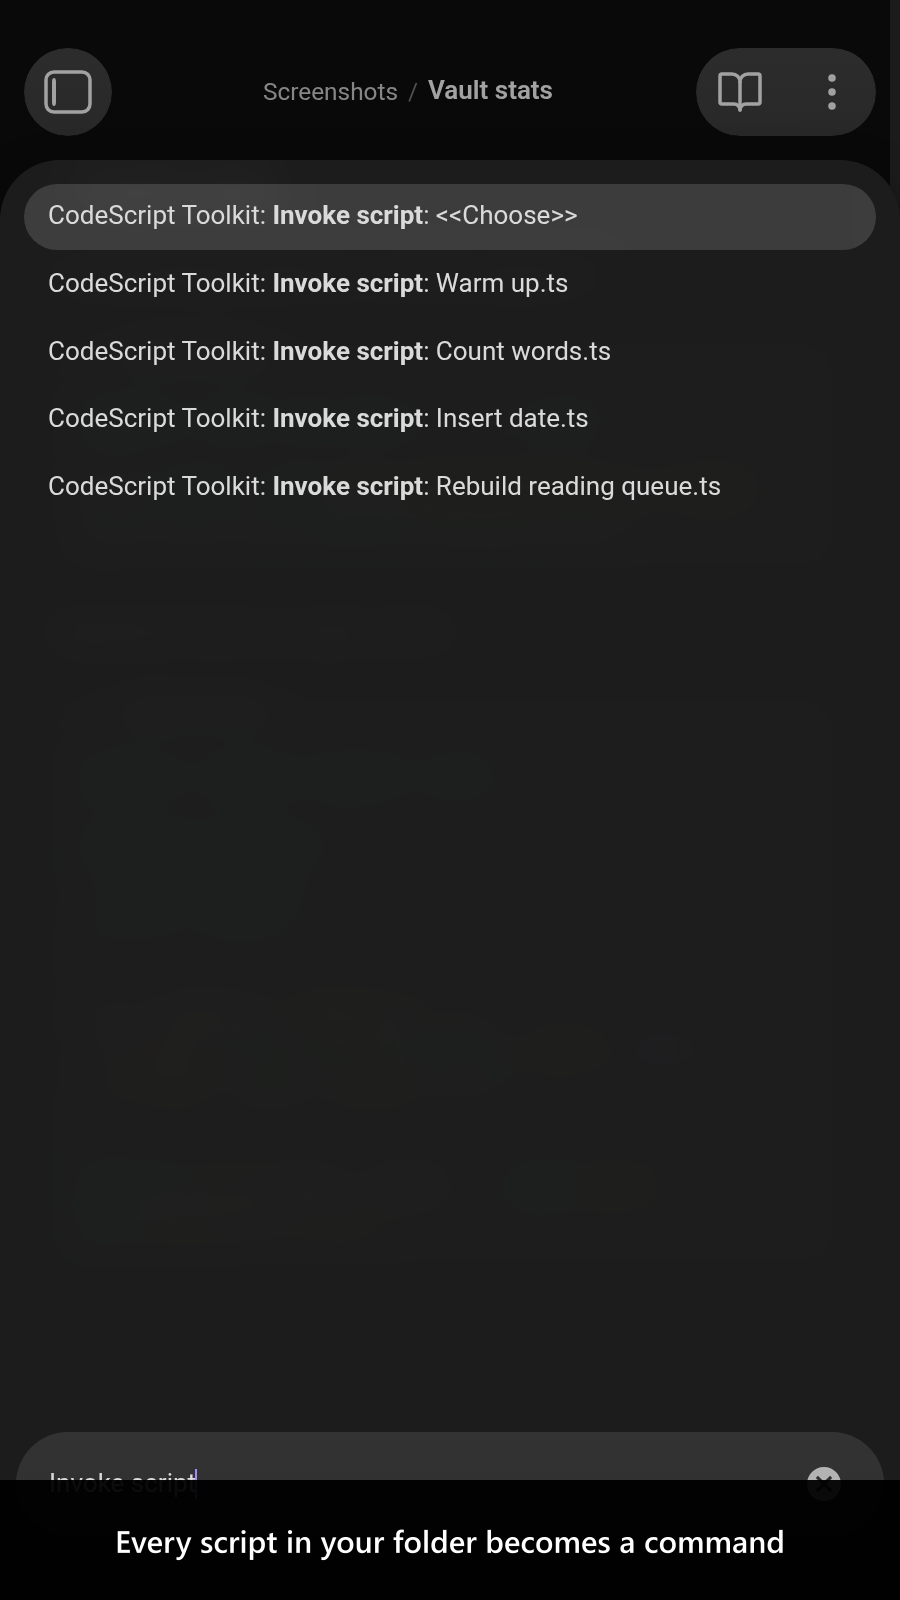
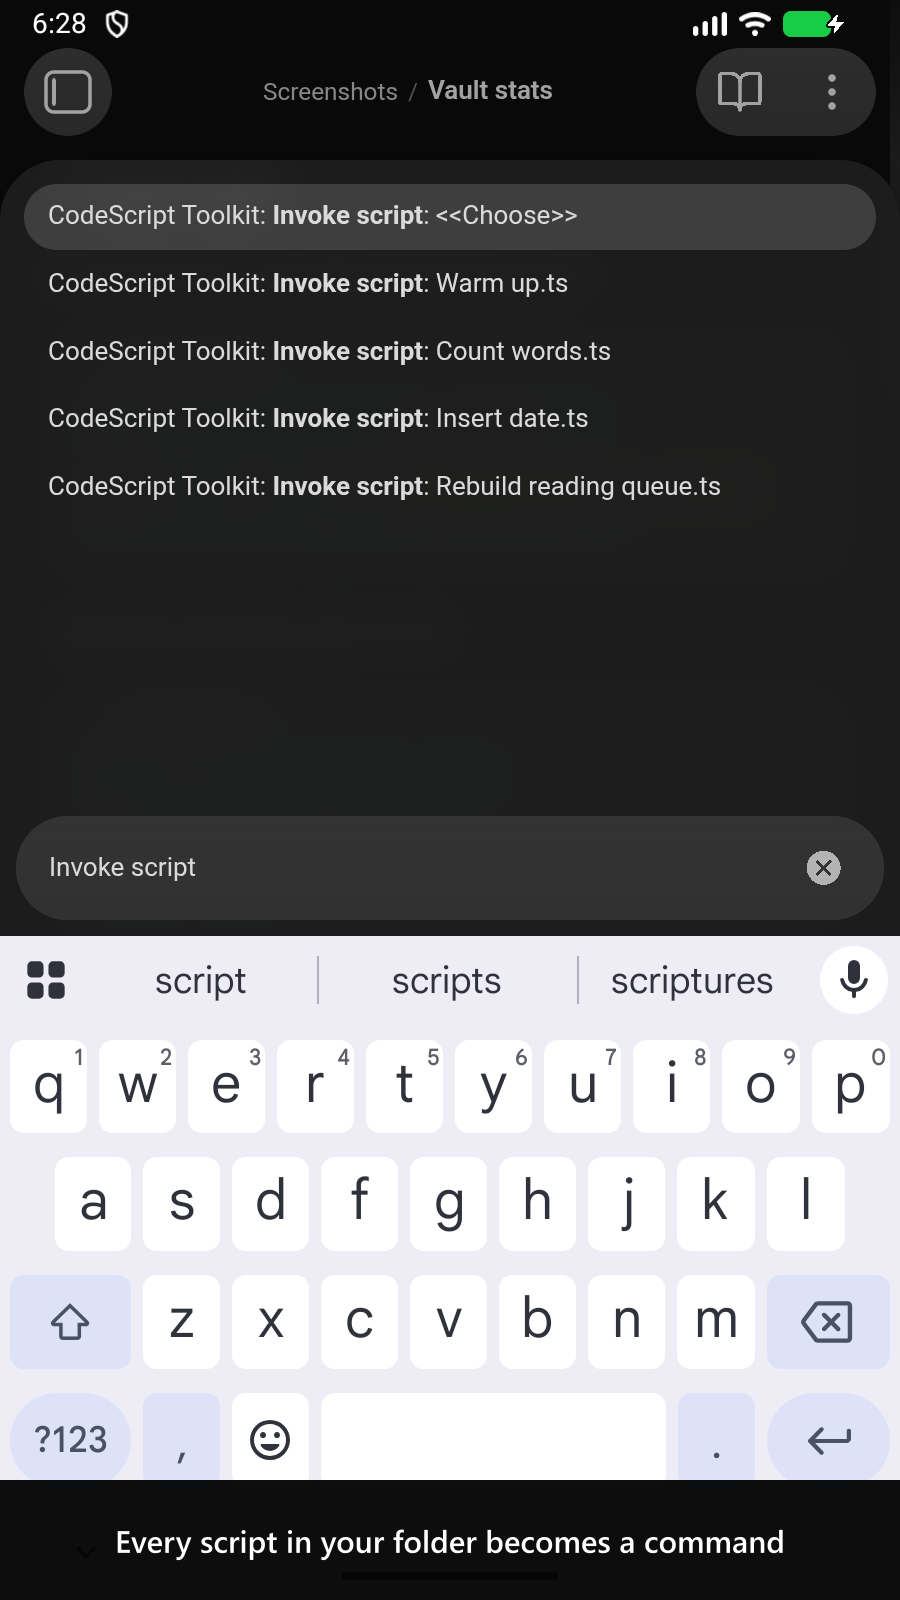
test(integration): take the palette frame with the soft keyboard up
The command-palette frame is a focused search field over nothing: the page
capture it used cannot show a keyboard, because it drives Appium in the
WebView context and the IME is a system window rather than part of the page.
So most of the frame was an empty band where a phone shows a keyboard, and the
caption band - drawn across the bottom of the image - landed on the field
itself.

That frame now comes from the device framebuffer with the keyboard raised
first. Measured as the largest contiguous flat row-run it falls from 58.3% to
19.8%, and all five invoke-script commands plus the typed query are legible,
which is exactly what the caption promises. Both halves of raising it come
from the harness: the AVD is built with a hardware keyboard attached, so
Android suppresses the on-screen one until the device setting is flipped, and a
WebView will not ask for an IME on programmatic focus alone, so it takes a real
touch on the field. The setting is restored exactly afterwards, including the
case where it had never been written.

The swap is per SHOT, not per suite. The four frames showing code blocks and
their results have no focused field - a real phone would show no keyboard there
either - so they keep the page capture and stay byte-reproducible; all four
re-captured to identical bytes, and only the palette frame is modified here.
That frame is the one that gives up reproducibility, since the status-bar clock
and the battery indicator are now in it.
[…]

diff --git a/src/screenshots.android-capture.integration.test.ts b/src/screenshots.android-capture.integration.test.ts
@@ -33,10 +33,14 @@ import { join } from 'node:path';
 import process from 'node:process';
 import { sleep as sleepInNode } from 'obsidian-dev-utils/async';
 import {
+  captureDeviceScreenshot,
   captureObsidianScreenshot,
   evalInObsidian,
   labelScreenshot,
-  readPngDimensions
+  raiseSoftKeyboard,
+  readPngDimensions,
+  resolveEmulatorDeviceId,
+  withSoftKeyboardEnabled
 } from 'obsidian-integration-testing';
 import { getTemporaryVault } from 'obsidian-integration-testing/vitest-global-setup-plugin';
 import {
@@ -102,7 +106,25 @@ const IMAGES_DIRECTORY = join(process.cwd(), 'images', 'screenshots');
  */
 let setupDiagnostics: unknown;
 
+/**
+ * The AVD the frames are taken on, matched by name.
+ *
+ * Never the first device `adb devices` lists: a physical phone is routinely plugged into the same
+ * machine, and the shared AVD the cross-platform suites drive is a different size.
+ */
+const AVD_NAME = 'obsidian_screenshots';
+
+/**
+ * Obsidian's command palette input, read off this suite's own palette helper rather than assumed: the
+ * palette renders `.prompt input`, which is not the `.prompt-input` a suggester renders.
+ */
+const PALETTE_INPUT_SELECTOR = '.prompt input';
+
+let deviceId = '';
+
 beforeAll(async () => {
+  deviceId = await resolveEmulatorDeviceId({ avdName: AVD_NAME });
+
   const vault = getTemporaryVault();
 
   vault.populate({
@@ -204,7 +226,7 @@ describe('mobile store screenshots', () => {
     const commandNames = registeredNames.join('\n');
     expect(commandNames).toContain('Invoke script: Insert date.ts');
     expect(commandNames).toContain('Invoke script: Rebuild reading queue.ts');
-    await shoot(4, 'Every script in your folder becomes a command');
+    await shootWithSoftKeyboard(4, 'Every script in your folder becomes a command');
   });
 
   it('5 - a note importing a module from the vault', async () => {
@@ -436,20 +458,47 @@ async function runModuleNote(): Promise<string> {
 async function shoot(index: number, caption: string): Promise<void> {
   const captured = await captureObsidianScreenshot({ vaultPath: vaultPath() });
 
-  // The AVD is 900x1600, so the device frame IS the store's size. Asserting it
-  // Here is what keeps that true: run this against any other AVD and it fails
-  // Loudly instead of quietly shipping an off-spec image.
-  expect(readPngDimensions(captured)).toStrictEqual({
-    heightInPixels: HEIGHT_IN_PIXELS,
-    widthInPixels: WIDTH_IN_PIXELS
+  await writeFrame(index, caption, captured);
+}
+
+/**
+ * Raises the soft keyboard, captures the DEVICE, and writes the frame.
+ *
+ * For a shot whose subject is a focused field. `captureObsidianScreenshot` cannot show a keyboard: it
+ * drives Appium in the WebView context, so it photographs the page, and the IME is a system window that
+ * is not part of the page — which left such a frame as a field over a large empty band, with the caption
+ * band landing on the field and clipping the typed text.
+ *
+ * Two things are needed and both belong to the harness rather than here: the AVD is built with a hardware
+ * keyboard attached, so Android suppresses the on-screen one until `withSoftKeyboardEnabled` lifts that
+ * and puts the setting back exactly — including putting back a setting that had never been written, which
+ * takes a delete rather than a write; and a WebView will not ask for an IME on programmatic focus alone,
+ * so `raiseSoftKeyboard` lands a real touch on the field and then proves geometrically that it lifted,
+ * because nothing in the page reports the keyboard.
+ *
+ * The trade, which applies only to the shots that switch: a device capture is **not** byte-reproducible,
+ * because the status-bar clock and the battery indicator are in it. A shot with no focused field keeps
+ * {@link shoot} and stays reproducible — a real phone shows no keyboard there either, so raising one
+ * would make that frame less true rather than more.
+ *
+ * @param index - The 1-based listing position.
+ * @param caption - The caption drawn across the bottom of the frame.
+ */
+async function shootWithSoftKeyboard(index: number, caption: string): Promise<void> {
+  const captured = await withSoftKeyboardEnabled({
+    async callback() {
+      await raiseSoftKeyboard({
+        deviceId,
+        inputSelector: PALETTE_INPUT_SELECTOR,
+        vaultPath: vaultPath()
+      });
+
+      return await captureDeviceScreenshot({ deviceId });
+    },
+    deviceId
   });
 
-  // Captioned AFTER capture, so the frame stays an untouched device screenshot
-  // And rewording a label needs no re-shoot.
-  const labeled = await labelScreenshot(captured, { text: caption });
-
-  mkdirSync(IMAGES_DIRECTORY, { recursive: true });
-  writeFileSync(join(IMAGES_DIRECTORY, `screenshot-mobile-${String(index)}.png`), labeled);
+  await writeFrame(index, caption, captured);
 }
 
 /**
@@ -525,4 +574,28 @@ async function waitForScriptCommands(): Promise<void> {
   }
 
   throw new Error('The staged scripts never registered as commands.');
+}
+
+/**
+ * Asserts the frame is the store size, captions it, and writes it out.
+ *
+ * @param index - The 1-based listing position.
+ * @param caption - The caption drawn across the bottom of the frame.
+ * @param captured - The raw PNG, from either capture route.
+ */
+async function writeFrame(index: number, caption: string, captured: Uint8Array): Promise<void> {
+  // The AVD is 900x1600, so the device frame IS the store's size. Asserting it
+  // Here is what keeps that true: run this against any other AVD and it fails
+  // Loudly instead of quietly shipping an off-spec image.
+  expect(readPngDimensions(captured)).toStrictEqual({
+    heightInPixels: HEIGHT_IN_PIXELS,
+    widthInPixels: WIDTH_IN_PIXELS
+  });
+
+  // Captioned AFTER capture, so the frame stays an untouched device screenshot
+  // And rewording a label needs no re-shoot.
+  const labeled = await labelScreenshot(captured, { text: caption });
+
+  mkdirSync(IMAGES_DIRECTORY, { recursive: true });
+  writeFileSync(join(IMAGES_DIRECTORY, `screenshot-mobile-${String(index)}.png`), labeled);
 }

diff --git a/AGENTS.md b/AGENTS.md
@@ -184,7 +184,7 @@ time when doing that:
 ### Gotcha: a hand-started Android emulator has no DNS
 
 `obsidian-integration-testing` starts the emulator itself with
-`-avd obsidian_test -no-snapshot-save -dns-server 8.8.8.8 [-no-window]`, but if the AVD is **already
+`-avd obsidian_test -no-snapshot-load -no-snapshot-save -dns-server 8.8.8.8 [-no-window]`, but if the AVD is **already
 running** it reuses that device as-is. An emulator started by hand (`emulator -avd obsidian_test`)
 therefore has no `-dns-server`, and on Windows it inherits a host DNS it cannot reach: IP routing
 works (`adb shell ping 8.8.8.8` succeeds) while **every hostname fails**
@@ -215,3 +215,37 @@ adb (a second AVD, a concurrent Android session), then leave it for the harness.
 `scripts/demo-vault-global-setup.ts` mirrors the CodeScript Toolkit settings that
 `obsidian-dev-utils`' `demo-vault-helper` writes, including the `defaultCodeButtonConfig` that turns
 the code-button source panel on. Two copies of one contract — keep them in sync.
+
+## Testing notes
+
+### The mobile screenshot capture suite
+
+The mobile frames are captured by **two different routes**, and which route a frame takes is a decision
+about that frame rather than a style choice:
+
+- **A frame whose subject is not a focused field captures the PAGE** (`captureObsidianScreenshot`), which
+  is byte-reproducible: no status bar and no clock, so re-capturing an unchanged frame leaves no diff. A
+  real phone shows no keyboard on such a screen either, so raising one would make the frame *less* true.
+- **A frame whose subject IS a focused field captures the DEVICE** (`captureDeviceScreenshot`), with the
+  soft keyboard raised first. A page capture cannot show a keyboard: it drives Appium in the WebView
+  context, so it photographs the page, and the IME is a system window that is not part of the page. That
+  left the command-palette frame as a search field over a large empty band, with the caption band — drawn
+  across the bottom of the image — landing on the field and clipping the typed text. **The cost is that
+  the switched frame is no longer byte-reproducible**, since the status-bar clock and the battery
+  indicator are in it. Do not "fix" that churn by putting it back on the page capture, and do not switch
+  the other frames over for consistency.
+- **Raising the keyboard takes TWO things**, which is why both belong to `obsidian-integration-testing`
+  rather than being copied in here. The AVD is built with a hardware keyboard attached, so Android
+  suppresses the on-screen one entirely — `withSoftKeyboardEnabled` lifts that for the duration of a shot
+  and restores the device exactly, including restoring a setting that had never been written, which takes
+  a delete rather than a write. And a WebView will not ask for an IME on programmatic focus alone:
+  `raiseSoftKeyboard` lands a real touch on the field and then proves geometrically that it lifted,
+  because nothing in the page reports the keyboard — `innerHeight`, `visualViewport` and the modal
+  container all keep their full height with it shown. A failure writes the device framebuffer and the
+  device's own input-method state to `dist/screenshots/`, because a bare assertion failure here is
+  unreadable.
+- **A passing lift check is not the same as a good frame.** The check asks whether the FIELD moved clear
+  of the bottom; it cannot tell you the keyboard covered the thing the shot is evidence for. So look at a
+  switched frame, every time, rather than trusting the measurement alone.
+- **The field it touches is read off the suite, not assumed.** The command palette renders
+  `.prompt input`, which is not the `.prompt-input` a suggester renders.
